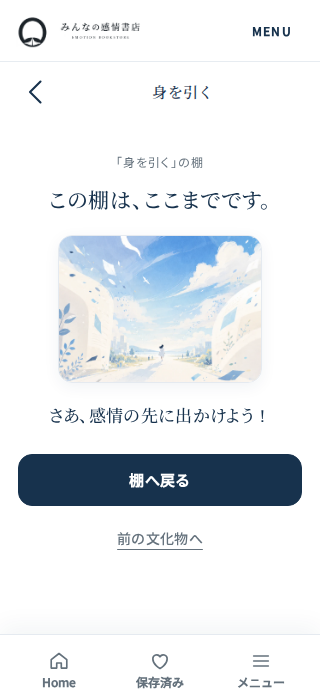
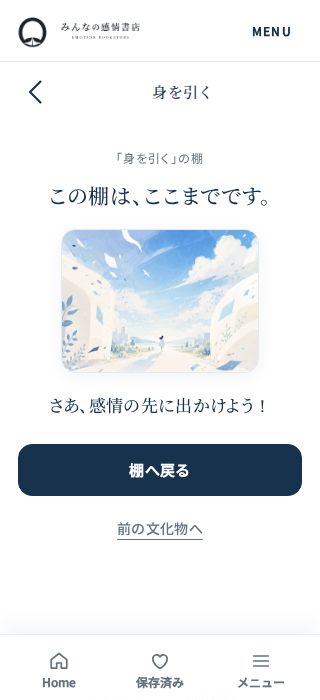
fix(v3): 完了画面を低背デスクトップでも1画面に収め、戻る導線の隠れを解消
最終スイープで検出した限定プレゼンテーション修正。挙動・copyは不変更。

- 1200x800級viewportで完了画面の内容がわずかに縦超過し、見出しfocus
  スクロールにより「戻る」pill・棚名がsticky header下に隠れていた
- completion余白・イラスト幅を微調整し、900px幅以上で1画面完結
  （focusスクロール0を1200/1440で実測確認）。mobileも845px相当に短縮
- 証跡のAFTER画像・比較画像を出荷状態へ更新（1200x800追加）

QA: authority regression 9/9（332assertion）PASS。
overflow 0 / JS error 0 / 320・390・1200・1440確認。

Claude-Session: https://claude.ai/code/session_01TaXVZnFfq42pQcgwEsf6HR

diff --git a/v3-prototype/css/visual-system-v1.css b/v3-prototype/css/visual-system-v1.css
@@ -2459,7 +2459,7 @@ body:has(.emotion-selection) .view {
 
 .deck-completion {
   max-width: 480px;
-  margin: 10px auto 0;
+  margin: 6px auto 0;
   padding: 0;
   border: 0;
   border-radius: 0;
@@ -2486,9 +2486,9 @@ body:has(.emotion-selection) .view {
 
 .deck-completion-illustration {
   display: block;
-  width: min(72%, 300px);
+  width: min(70%, 290px);
   height: auto;
-  margin: 20px auto 0;
+  margin: 18px auto 0;
   border: 1px solid var(--border-color);
   border-radius: 14px;
   box-shadow: var(--shadow-card);
@@ -2506,7 +2506,7 @@ body:has(.emotion-selection) .view {
 
 .deck-completion-actions {
   max-width: 340px;
-  margin: 24px auto 0;
+  margin: 20px auto 0;
   gap: 10px;
 }
 
@@ -2522,9 +2522,15 @@ body:has(.emotion-selection) .view {
   font-weight: 500;
 }
 
+/* Fit the send-off within one viewport at supported desktop heights, so the
+   heading focus never scrolls the back control under the sticky header. */
 @media (min-width: 900px) {
+  .surface[data-surface="04-discovery-none"] {
+    padding-top: 26px;
+  }
+
   .deck-completion {
-    margin-top: 26px;
+    margin-top: 0;
   }
 
   .deck-completion-title {
@@ -2532,7 +2538,11 @@ body:has(.emotion-selection) .view {
   }
 
   .deck-completion-illustration {
-    width: min(60%, 320px);
+    width: min(54%, 290px);
+  }
+
+  .deck-completion-sendoff {
+    margin-top: 16px;
   }
 }
 
